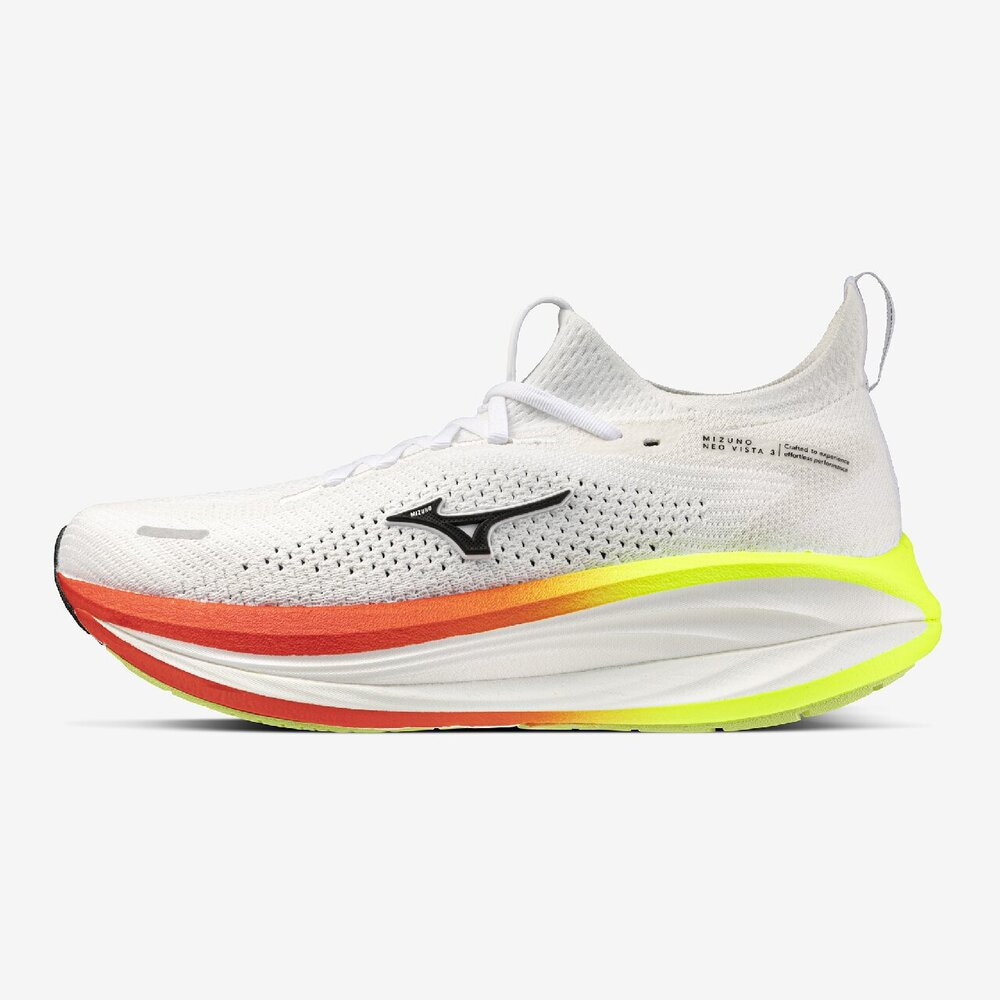
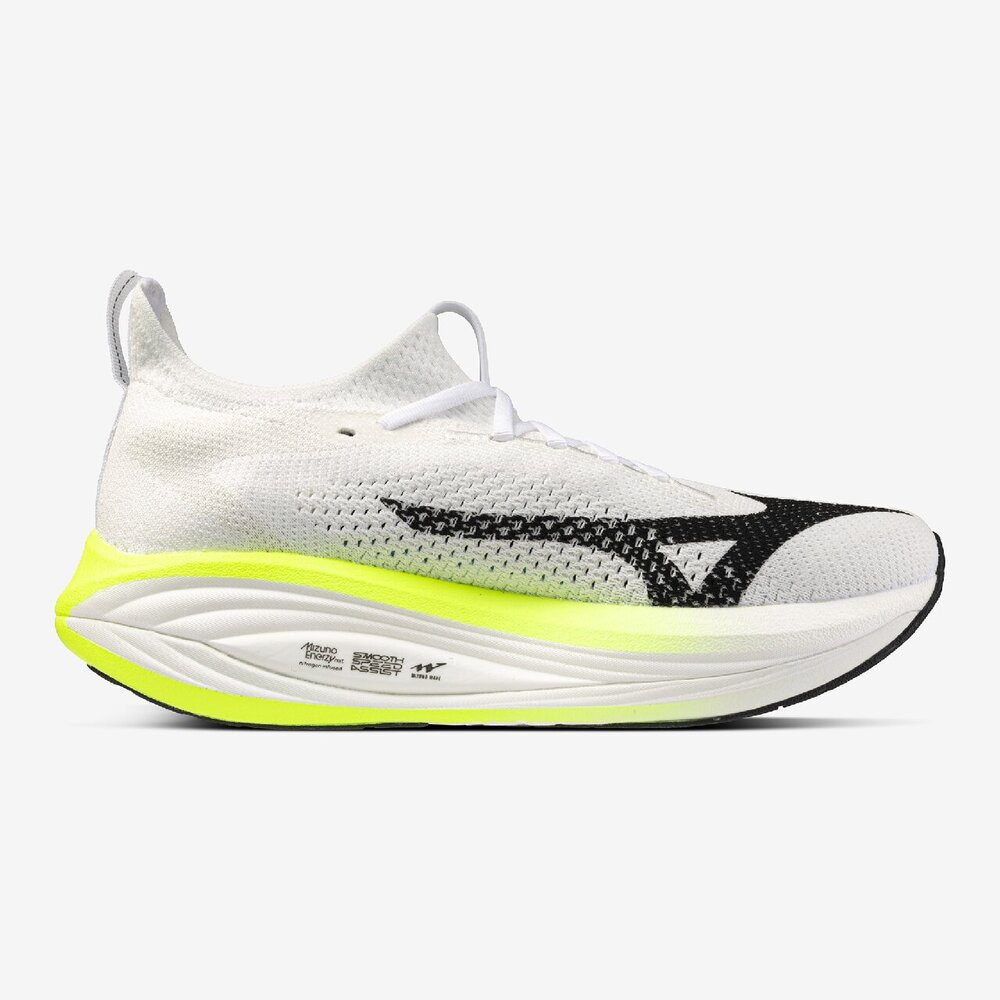
Unify official shoe image direction

Changed region(s): [[0.031, 0.248, 0.961, 0.744]]

diff --git a/data/shoes.js b/data/shoes.js
@@ -7,7 +7,7 @@
 
   const SOURCE_POST =
     "https://gall.dcinside.com/mgallery/board/view/?id=running&no=1117518";
-  const IMAGE_VERSION = "20260831-framed-1";
+  const IMAGE_VERSION = "20260901-direction-1";
   const LINEUP_VERSION = "20260826-lineup-archive-1";
 
   window.RUNNING_LINEUP_VERSION = LINEUP_VERSION;
@@ -221,17 +221,17 @@
     "brooks-하이페리온-엘리트-6": {"imageUrl": "https://www.brooksrunning.com/dw/image/v2/BGPF_PRD/on/demandware.static/-/Sites-brooks-master-catalog/default/dw8ae116b3/original/100054/100054-088-l-hyperion-elite-6-unisex-max-cushion-road-running-shoe.jpg?bgcolor=F8F8F8&sfrm=png&sh=1600&sm=fit&strip=false&sw=1600", "imageSourceUrl": "https://www.brooksrunning.com/en_us/featured/unisex-running-shoes/hyperion-elite-6/100054.html", "officialProductUrl": "https://www.brooksrunning.com/en_us/featured/unisex-running-shoes/hyperion-elite-6/100054.html", "displayName": "Hyperion Elite 6", "imageFit": "contain", "imagePosition": "center", "imageScale": 0.94},
     "hoka-클리프톤-11": {"imageUrl": "https://media.au.hoka.com/products/ed8eb01e-c3ca-4ce9-b6eb-9086e526b25c/260e0ce5/1176572-vsf_vsf_01.jpg", "imageSourceUrl": "https://au.hoka.com/products/clifton-11-1176572-vsf-vsf", "officialProductUrl": "https://au.hoka.com/products/clifton-11-1176572-vsf-vsf", "displayName": "Clifton 11", "imageFit": "contain", "imagePosition": "center", "imageScale": 0.94},
     "hoka-스카이워드-x2": {"imageUrl": "https://hoka.co.th/cdn/shop/files/1171925-BSSM-0_page1.jpg?v=1765294277&width=1800", "imageSourceUrl": "https://hoka.co.th/products/1171925-bssm-skyward-x-2-men", "officialProductUrl": "https://hoka.co.th/products/1171925-bssm-skyward-x-2-men", "displayName": "Skyward X 2", "imageFit": "contain", "imagePosition": "center", "imageScale": 0.94},
-    "mizuno-웨이브-라이더-30": {"imageUrl": "https://jpn.mizuno.com/static/mallDefault/images/goods/zoom1000/SH_J1GU262381_02_XL.jpg", "imageSourceUrl": "https://jpn.mizuno.com/ec/disp/attgrp/J1GU2623/", "officialProductUrl": "https://jpn.mizuno.com/ec/disp/attgrp/J1GU2623/", "displayName": "Wave Rider 30", "imageFit": "contain", "imagePosition": "center", "imageScale": 0.94},
-    "mizuno-네오-코스모-2": {"imageUrl": "https://jpn.mizuno.com/static/mallDefault/images/goods/zoom1000/SH_J1GU261281_02_XL.jpg", "imageSourceUrl": "https://jpn.mizuno.com/ec/disp/attgrp/J1GU2612/", "officialProductUrl": "https://jpn.mizuno.com/ec/disp/attgrp/J1GU2612/", "displayName": "Neo Cosmo 2", "imageFit": "contain", "imagePosition": "center", "imageScale": 0.94},
-    "mizuno-네오-비스타-3": {"imageUrl": "https://jpn.mizuno.com/static/mallDefault/images/goods/zoom1000/SH_J1GM261051_02_XL.jpg", "imageSourceUrl": "https://corp.mizuno.com/jp/news-release/2026/20260511", "officialProductUrl": "https://corp.mizuno.com/jp/news-release/2026/20260511", "displayName": "Neo Vista 3", "imageFit": "contain", "imagePosition": "center", "imageScale": 0.94},
+    "mizuno-웨이브-라이더-30": {"imageUrl": "https://jpn.mizuno.com/static/mallDefault/images/goods/zoom1000/SH_J1GU262381_04_XL.jpg", "imageSourceUrl": "https://jpn.mizuno.com/ec/disp/attgrp/J1GU2623/", "officialProductUrl": "https://jpn.mizuno.com/ec/disp/attgrp/J1GU2623/", "displayName": "Wave Rider 30", "imageFit": "contain", "imagePosition": "center", "imageScale": 0.94},
+    "mizuno-네오-코스모-2": {"imageUrl": "https://jpn.mizuno.com/static/mallDefault/images/goods/zoom1000/SH_J1GU261281_04_XL.jpg", "imageSourceUrl": "https://jpn.mizuno.com/ec/disp/attgrp/J1GU2612/", "officialProductUrl": "https://jpn.mizuno.com/ec/disp/attgrp/J1GU2612/", "displayName": "Neo Cosmo 2", "imageFit": "contain", "imagePosition": "center", "imageScale": 0.94},
+    "mizuno-네오-비스타-3": {"imageUrl": "https://jpn.mizuno.com/static/mallDefault/images/goods/zoom1000/SH_J1GM261051_04_XL.jpg", "imageSourceUrl": "https://corp.mizuno.com/jp/news-release/2026/20260511", "officialProductUrl": "https://corp.mizuno.com/jp/news-release/2026/20260511", "displayName": "Neo Vista 3", "imageFit": "contain", "imagePosition": "center", "imageScale": 0.94},
     "new-balance-sc레벨-v1": {"imageUrl": "https://nb.scene7.com/is/image/NB/mrebx351_nb_02_i?wid=1200&hei=1200", "imageSourceUrl": "https://company.newbalance.jp/press/2026/p-73276", "officialProductUrl": "https://company.newbalance.jp/press/2026/p-73276", "displayName": "SuperComp Rebel v1", "imageFit": "contain", "imagePosition": "center", "imageScale": 0.94},
     "new-balance-sc엘리트-v6": {"imageUrl": "https://nb.scene7.com/is/image/NB/mrcel8dm_nb_02_i?wid=1200&hei=1200", "imageSourceUrl": "https://www.newbalance.com/pd/supercomp-elite-v6/MRCEL8DM-D-13.html", "officialProductUrl": "https://www.newbalance.com/pd/supercomp-elite-v6/MRCEL8DM-D-13.html", "displayName": "SuperComp Elite v6", "imageFit": "contain", "imagePosition": "center", "imageScale": 0.94},
-    "nike-페가수스-플러스-2": {"imageUrl": "https://static.nike.com/a/images/t_PDP_1728_v1/f_auto,q_auto:eco,c_scale,w_300,u_9ddf04c7-2a9a-4d76-add1-d15af8f0263d,c_scale,fl_relative,w_1.0,h_1.0,fl_layer_apply/42f97f9a-266f-4f93-ba35-48eb3bead8f4/NIKE+PEGASUS+PLUS+2.png", "imageSourceUrl": "https://www.nike.com/t/pegasus-plus-2-mens-road-running-shoes-p9ePl101/IM2541-600", "officialProductUrl": "https://www.nike.com/t/pegasus-plus-2-mens-road-running-shoes-p9ePl101/IM2541-600", "displayName": "Pegasus Plus 2", "imageFit": "contain", "imagePosition": "center", "imageScale": 0.94},
+    "nike-페가수스-플러스-2": {"imageUrl": "https://static.nike.com/a/images/t_PDP_1728_v1/f_auto,q_auto:eco,c_scale,w_1200,u_9ddf04c7-2a9a-4d76-add1-d15af8f0263d,c_scale,fl_relative,w_1.0,h_1.0,fl_layer_apply/da1f3ac5-58fd-4966-b425-ae55e573641c/NIKE+PEGASUS+PLUS+2.png", "imageSourceUrl": "https://www.nike.com/t/pegasus-plus-2-mens-road-running-shoes-p9ePl101/IM2541-600", "officialProductUrl": "https://www.nike.com/t/pegasus-plus-2-mens-road-running-shoes-p9ePl101/IM2541-600", "displayName": "Pegasus Plus 2", "imageFit": "contain", "imagePosition": "center", "imageScale": 0.94},
     "on-클라우드-러너-3-맥스": {"imageUrl": "https://images.ctfassets.net/hnk2vsx53n6l/3PpqaUd5TTEOnT7MuEHdNN/b035a4bf6f2f4055e4e5e117a2db2145/8e8dfdec1bdb38c02c4152f3a67b2b6eeb4fa489.png", "imageSourceUrl": "https://www.on.com/en-us/products/cloudrunner-3-max-w-3wg3016/womens/white-salt-shoes-3WG30169965", "officialProductUrl": "https://www.on.com/en-us/products/cloudrunner-3-max-w-3wg3016/womens/white-salt-shoes-3WG30169965", "displayName": "Cloudrunner 3 Max", "imageFit": "contain", "imagePosition": "center", "imageScale": 0.94},
     "on-클라우드붐-스트라이크-2": {"imageUrl": "https://images.ctfassets.net/hnk2vsx53n6l/2sk6KiTbOH86wQjILFamaf/a3843792cc2caa75c61bd087492c1e14/831d1efe99722721c49b089cf3d632d4603fdc71.png", "imageSourceUrl": "https://www.on.com/en-us/products/cloudboom-strike-2-u-3ug3005/unisex/aconite-verdite-shoes-3UG30053029", "officialProductUrl": "https://www.on.com/en-us/products/cloudboom-strike-2-u-3ug3005/unisex/aconite-verdite-shoes-3UG30053029", "displayName": "Cloudboom Strike 2", "imageFit": "contain", "imagePosition": "center", "imageScale": 0.94},
     "on-클라우드붐-스트라이크-2-ls": {"imageUrl": "https://images.ctfassets.net/hnk2vsx53n6l/Bw1ZVLnb57AZvQ43o8kgC/2095abe54d37d0e88497e70bc7538ae8/e58ff68cb8503ad505ddf81101e9909092189081.png", "imageSourceUrl": "https://www.on.com/en-us/products/cloudboom-strike-2-ls-u-3ug3002/unisex/white-lime-shoes-3UG30022929", "officialProductUrl": "https://www.on.com/en-us/products/cloudboom-strike-2-ls-u-3ug3002/unisex/white-lime-shoes-3UG30022929", "displayName": "Cloudboom Strike 2 LS", "imageFit": "contain", "imagePosition": "center", "imageScale": 0.94},
-    "puma-포에버런-나이트로-3": {"imageUrl": "https://images.puma.com/image/upload/f_auto,q_auto,b_rgb:fafafa,w_1600,h_1600/global/313703/01/sv01/fnd/KOR/fmt/png/포에버런-나이트로-3-와이드-우먼스-brForeverRun-NITRO-3-WIDE-Wns", "imageSourceUrl": "https://kr.puma.com/kr/ko/sport/running", "officialProductUrl": "https://kr.puma.com/kr/ko/sport/running", "displayName": "ForeverRun NITRO 3", "imageFit": "contain", "imagePosition": "center", "imageScale": 0.94},
-    "puma-벨로시티-나이트로-5": {"imageUrl": "https://images.puma.com/image/upload/f_auto,q_auto,b_rgb:fafafa,w_1600,h_1600/global/313691/01/sv01/fnd/KOR/fmt/png/벨로시티-나이트로-5-와이드-우먼스-brVelocity-NITRO-5-WIDE-Wns", "imageSourceUrl": "https://kr.puma.com/kr/ko/sport/running", "officialProductUrl": "https://kr.puma.com/kr/ko/sport/running", "displayName": "Velocity NITRO 5", "imageFit": "contain", "imagePosition": "center", "imageScale": 0.94},
+    "puma-포에버런-나이트로-3": {"imageUrl": "https://images.puma.com/image/upload/f_auto,q_auto,b_rgb:fafafa,w_1600,h_1600/global/313703/01/sv03/fnd/PNA/fmt/png/ForeverRun-NITRO%E2%84%A2-3-Women%27s-Wide-Road-Running-Shoes", "imageSourceUrl": "https://kr.puma.com/kr/ko/sport/running", "officialProductUrl": "https://kr.puma.com/kr/ko/sport/running", "displayName": "ForeverRun NITRO 3", "imageFit": "contain", "imagePosition": "center", "imageScale": 0.94},
+    "puma-벨로시티-나이트로-5": {"imageUrl": "https://images.puma.com/image/upload/f_auto,q_auto,b_rgb:fafafa,w_1600,h_1600/global/313691/01/sv03/fnd/PNA/fmt/png/Velocity-NITRO%E2%84%A2-5-Wide-Running-Shoes-Women-Women%27s-Wide-Road-Running-Shoes", "imageSourceUrl": "https://kr.puma.com/kr/ko/sport/running", "officialProductUrl": "https://kr.puma.com/kr/ko/sport/running", "displayName": "Velocity NITRO 5", "imageFit": "contain", "imagePosition": "center", "imageScale": 0.94},
     "saucony-파라마운트-맥스": {"imageUrl": "https://thekit.wolverineworldwide.com/match/media_lookup/S101162-1009_1/?preset=dw-large", "imageSourceUrl": "https://www.saucony.com/en/paramount-max/61251M.html?dwvar_61251M_color=S101162-1009", "officialProductUrl": "https://www.saucony.com/en/paramount-max/61251M.html?dwvar_61251M_color=S101162-1009", "displayName": "Paramount Max", "imageFit": "contain", "imagePosition": "center", "imageScale": 0.94},
     "saucony-허리케인-26": {"imageUrl": "https://thekit.wolverineworldwide.com/match/media_lookup/S101106-1016_1/?preset=dw-large", "imageSourceUrl": "https://www.saucony.com/en/hurricane-26/61262W.html?dwvar_61262W_color=S101106-1016", "officialProductUrl": "https://www.saucony.com/en/hurricane-26/61262W.html?dwvar_61262W_color=S101106-1016", "displayName": "Hurricane 26", "imageFit": "contain", "imagePosition": "center", "imageScale": 0.94},
     "saucony-엔돌핀-엘리트-3": {"imageUrl": "https://thekit.wolverineworldwide.com/match/media_lookup/S100981-1019_1/?preset=dw-large", "imageSourceUrl": "https://www.saucony.com/en/endorphin-elite-3/61243U.html?dwvar_61243U_color=S100981-1019", "officialProductUrl": "https://www.saucony.com/en/endorphin-elite-3/61243U.html?dwvar_61243U_color=S100981-1019", "displayName": "Endorphin Elite 3", "imageFit": "contain", "imagePosition": "center", "imageScale": 0.94},
